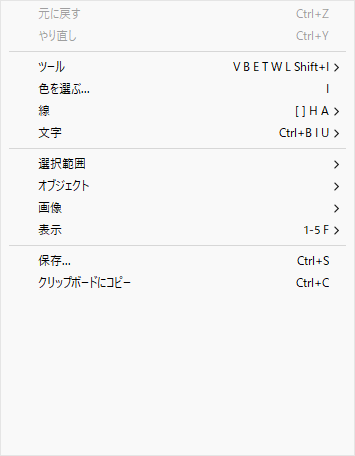
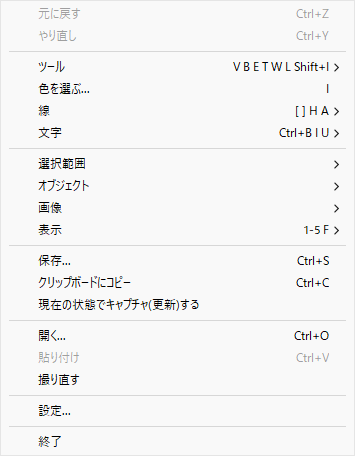
説明書と変更履歴をフォントの窓に合わせ、右クリックメニューの絵を撮り直す

diff --git a/docs/manual.md b/docs/manual.md
@@ -108,6 +108,16 @@
 - 入力欄は確定後と同じフォント・サイズ・色で表示されます
 - 選んだ範囲だけ、太字・斜体・下線・打ち消し線・色・サイズ・フォントを変えられます
 - 何も選ばずに指定すると、そこから先に打つ文字に適用されます
+- **フォントは名前で絞り込んで選びます** ―― 右クリック →「文字」→「フォント...」（入力中の
+  右クリックからも同じ）。小さな窓が開くので、**名前の一部を打つと一覧が絞られます**。
+  `Enter` か一覧のダブルクリックで決まり、`Esc` か窓の外を押すと何も変えずに閉じます。
+  打ちながら `↑` `↓` `PageUp` `PageDown` で一覧を歩けます
+  - **大文字小文字・全角半角・ひらがなとカタカナの違いは無視されます。**
+    `ms` で「ＭＳ ゴシック」、`ごしっく`（変換前のままで可）で「ゴシック」系が出ます
+  - **英語名でも引けます。** `yu` で「游ゴシック」、`meiryo` で「メイリオ」。
+    日本語名のフォントを探すのに、日本語入力へ切り替える必要はありません
+  - 開いたときは**いま効いているフォント**が選ばれています。範囲の中でフォントが
+    揃っていないときは、どれも選ばれていない状態で開きます
 - 再編集しても作成時の書式を保ちます
 - **縁取りと影は飾りパレットで切り替えます** ―― `Ctrl + D`（右クリック →「文字」→「飾り...」でも
   同じ）。縁取り・縁の太さ・縁の色・影・影の長さ・影の向き・影の色・影の濃さが 1 枚に並び、
@@ -119,7 +129,7 @@
   移っても、効く先は変わりません。どのテキストも指していなければ、次に打つテキストに効きます
 - **大きさは数字でも打ち込めます** ―― 右クリック →「文字」→「大きさ...」。押した位置に小さな
   入力欄が出るので、数字を入れて Enter です（Esc で取り消し）
-- **縁の太さと影の長さは、文字の大きさとは無関係の px です。**文字を大きくしても縁は太くなりません
+- **縁の太さと影の長さは、文字の大きさとは無関係の px です。** 文字を大きくしても縁は太くなりません
 - **影のにじみは長さの半分**です。長くするほど広がり、そのぶん淡くなります。
   向きは **9 通り** ―― 8 方向と、**ずれずに字のまわりへ広がる「真下」**
 - 入力中は縁取りと影を切り替えられません（入力欄はどちらも描かないため、変えても見た目が変わりません）
@@ -241,7 +251,7 @@
 | 項目 | 内容 |
 |---|---|
 | つなぐ向き | **上・下・左・右** |
-| 隙間 (px) | 2 枚の間隔。**既定は設定の「連結の隙間」**から来ます |
+| 隙間 (px) | 2 枚の間隔。**既定は設定の「連結の隙間」** から来ます |
 | 横のずれ / 縦のずれ (px) | 向きと隙間で決まった位置からの微調整。**負の値も入ります** |
 | 重なったとき、足す画像を上にする | 重ねたときにどちらを見せるか |
 

diff --git a/CHANGELOG.md b/CHANGELOG.md
@@ -14,7 +14,17 @@
 
 - **設定の「全般」に「掴める範囲」と「連結の隙間」が増えました。** 掴める範囲を広げると、選んだものに付く帯も一緒に太くなります ―― **見えている所がそのまま掴める範囲**です
 
+- **フォントを名前で絞り込んで選べるようになりました。** 右クリックメニューの「文字」→「フォント...」（入力中の右クリックからも同じ）で小さな窓が開き、**名前の一部を打つと一覧が絞られます**。`Enter` か一覧のダブルクリックで決まり、`Esc` か外を押すと何も変えずに閉じます。打ちながら `↑` `↓` で一覧を歩けます。**大文字小文字・全角半角・ひらがなとカタカナの違いは無視される**ので、`ms` で「ＭＳ ゴシック」、`ごしっく`（変換前のままで可）で「ゴシック」系が出ます。**英語名でも引けます** ―― `yu` で「游ゴシック」、`meiryo` で「メイリオ」が出るので、日本語名のフォントを探すのに日本語入力へ切り替える必要がありません
+
 ### 変わったこと
+
+- **フォントの一覧が、画面いっぱいに広がらなくなりました。** これまでは 365 件が 30 個ずつ 13 列に折り返して画面幅を埋めており、目で探すしかありませんでした。1 枚の小さな窓に変わり、絞り込みで目当ての名前に届きます
+
+### 直したこと
+
+- **「表示」→「500%」が、拡大せずにフォントを変えてしまっていた不具合を直しました。** メニュー項目の内部番号が、フォント一覧の先頭と重なっていたためです
+
+- **2 つのフォントにまたがる範囲を選んだとき、片方のフォントに印が付いてしまう**のをやめました。範囲の中でフォントが揃っていないときは、どれにも印を付けません
 
 - **`Ctrl + W` / `Ctrl + L` は、どこからでもオブジェクト選択に入るようになりました。** これまでは同じキーをもう一度押すと元のツールに戻っていましたが、入ったつもりが出てしまうことがあったため、他のツールキーと同じ「押したらそこへ行く」に揃えました。抜けるときは他のツールのキーを押してください
 
